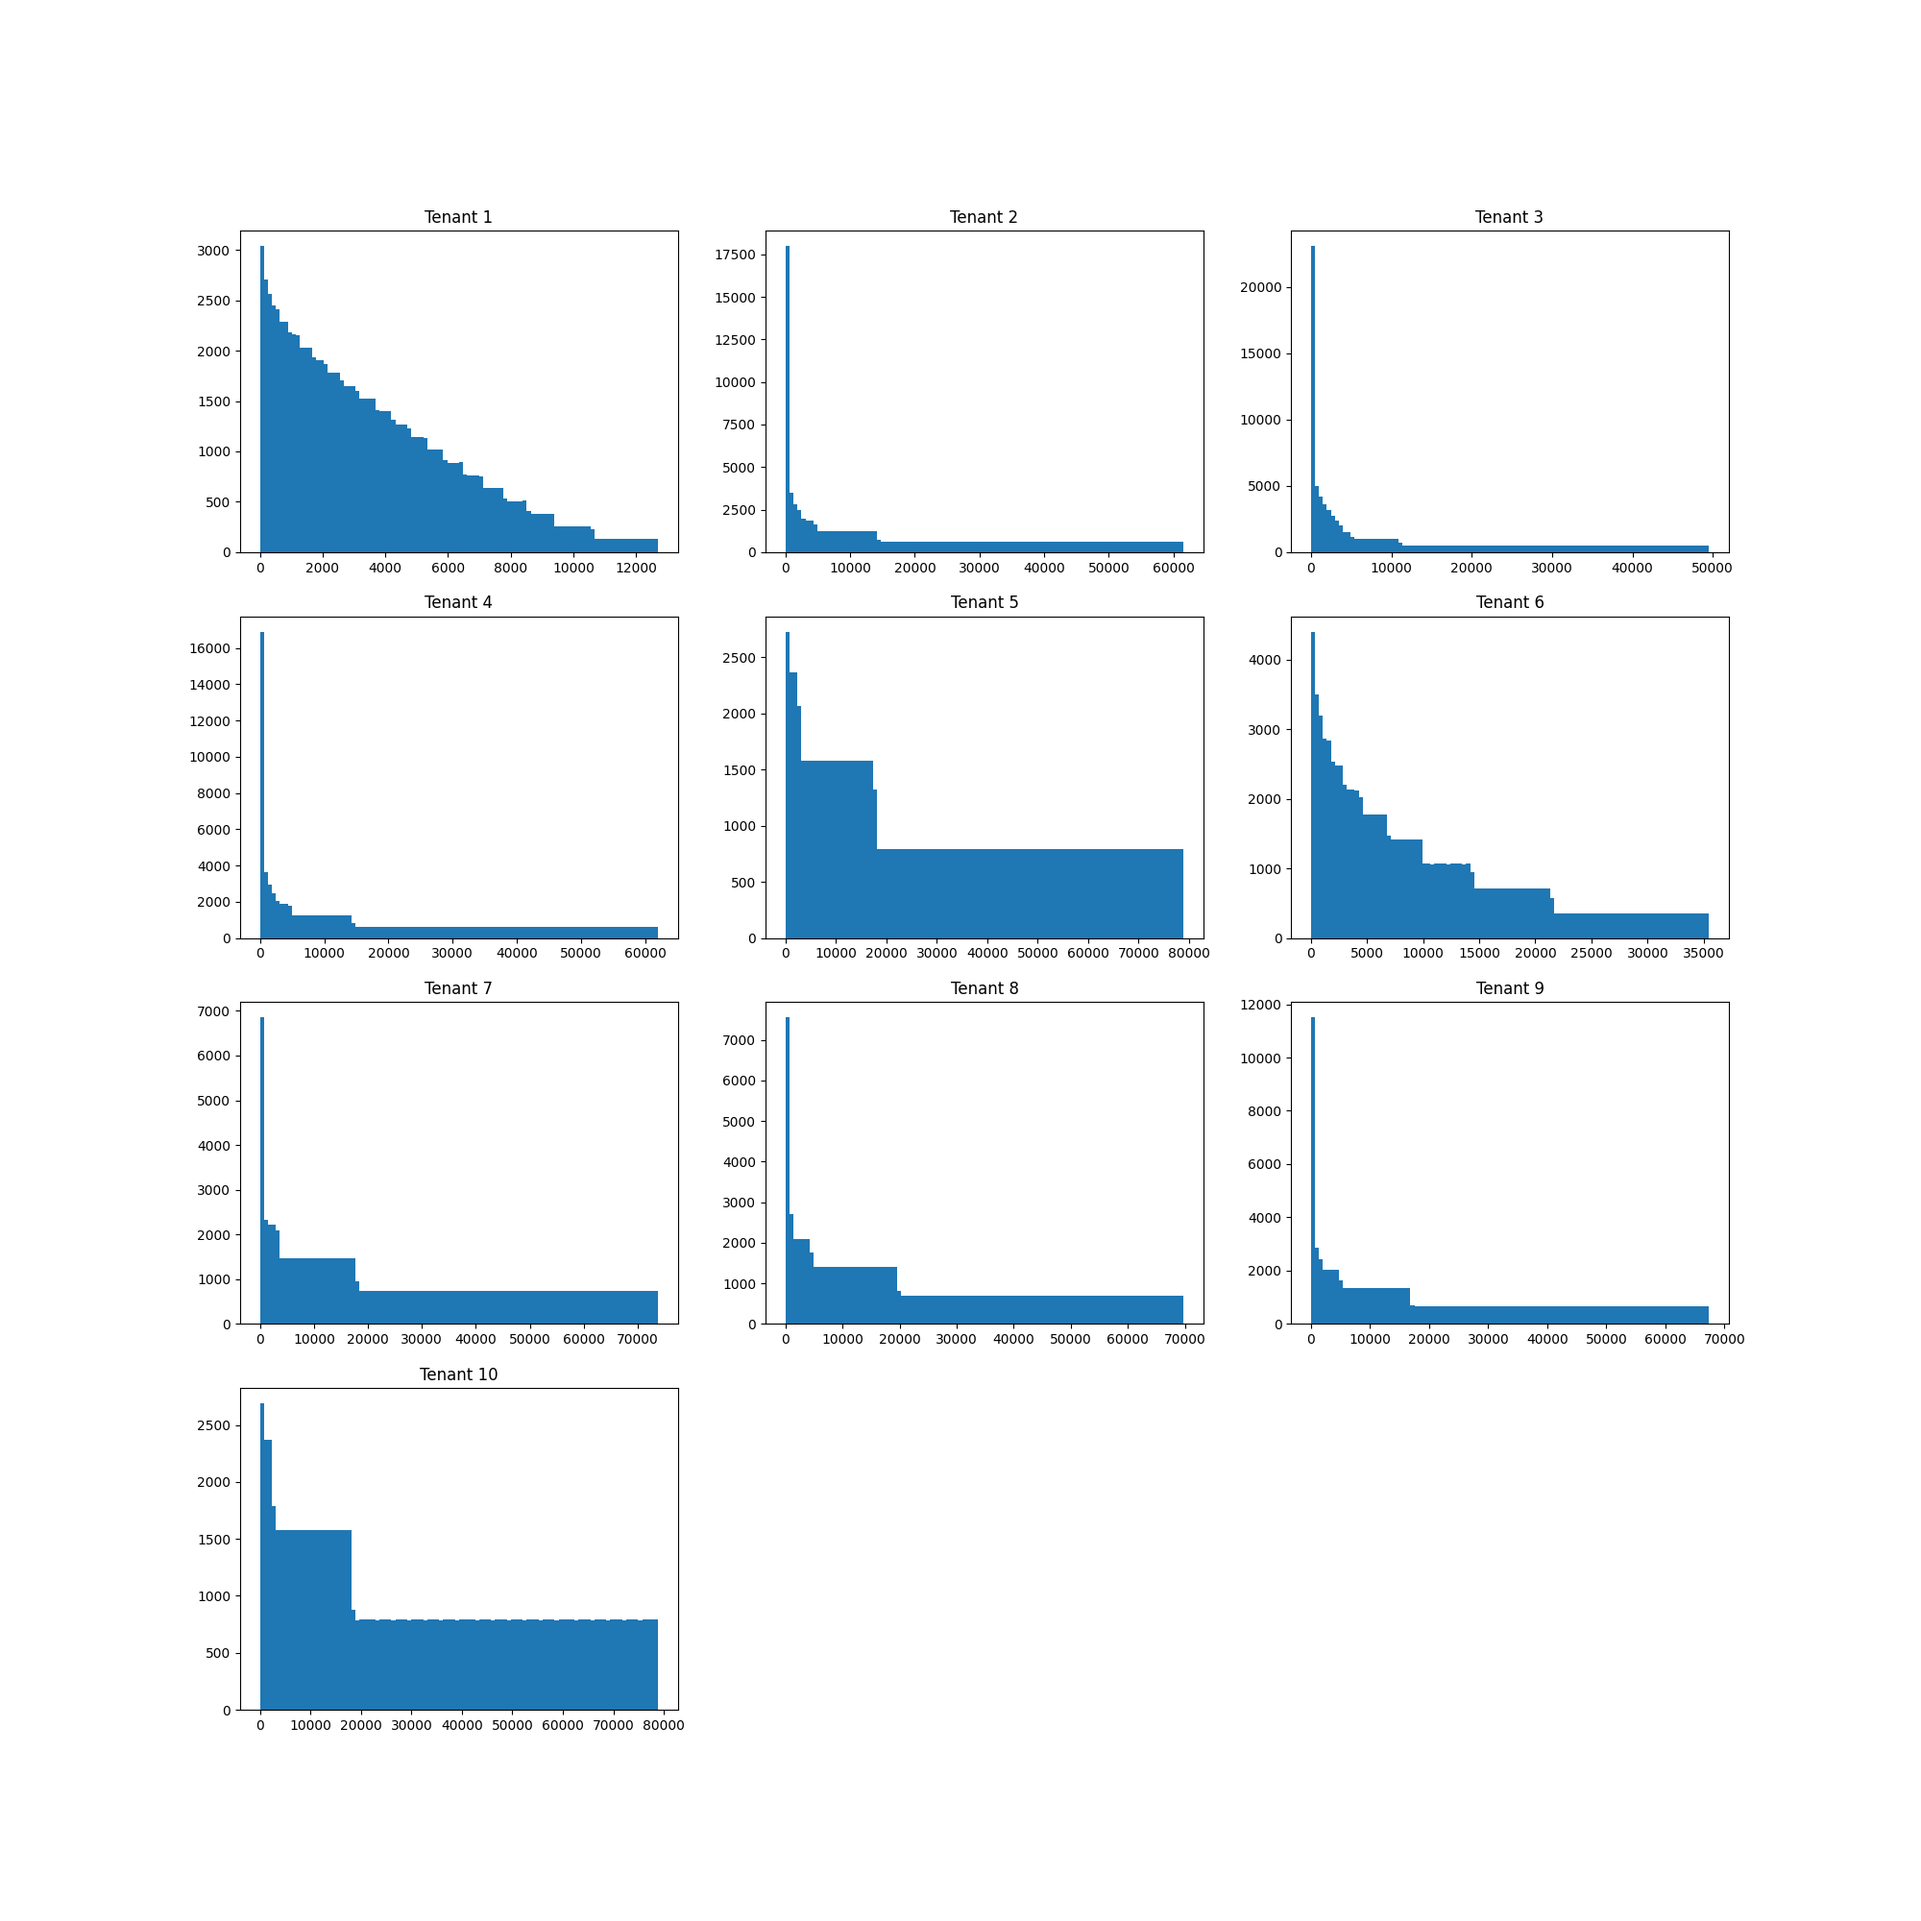
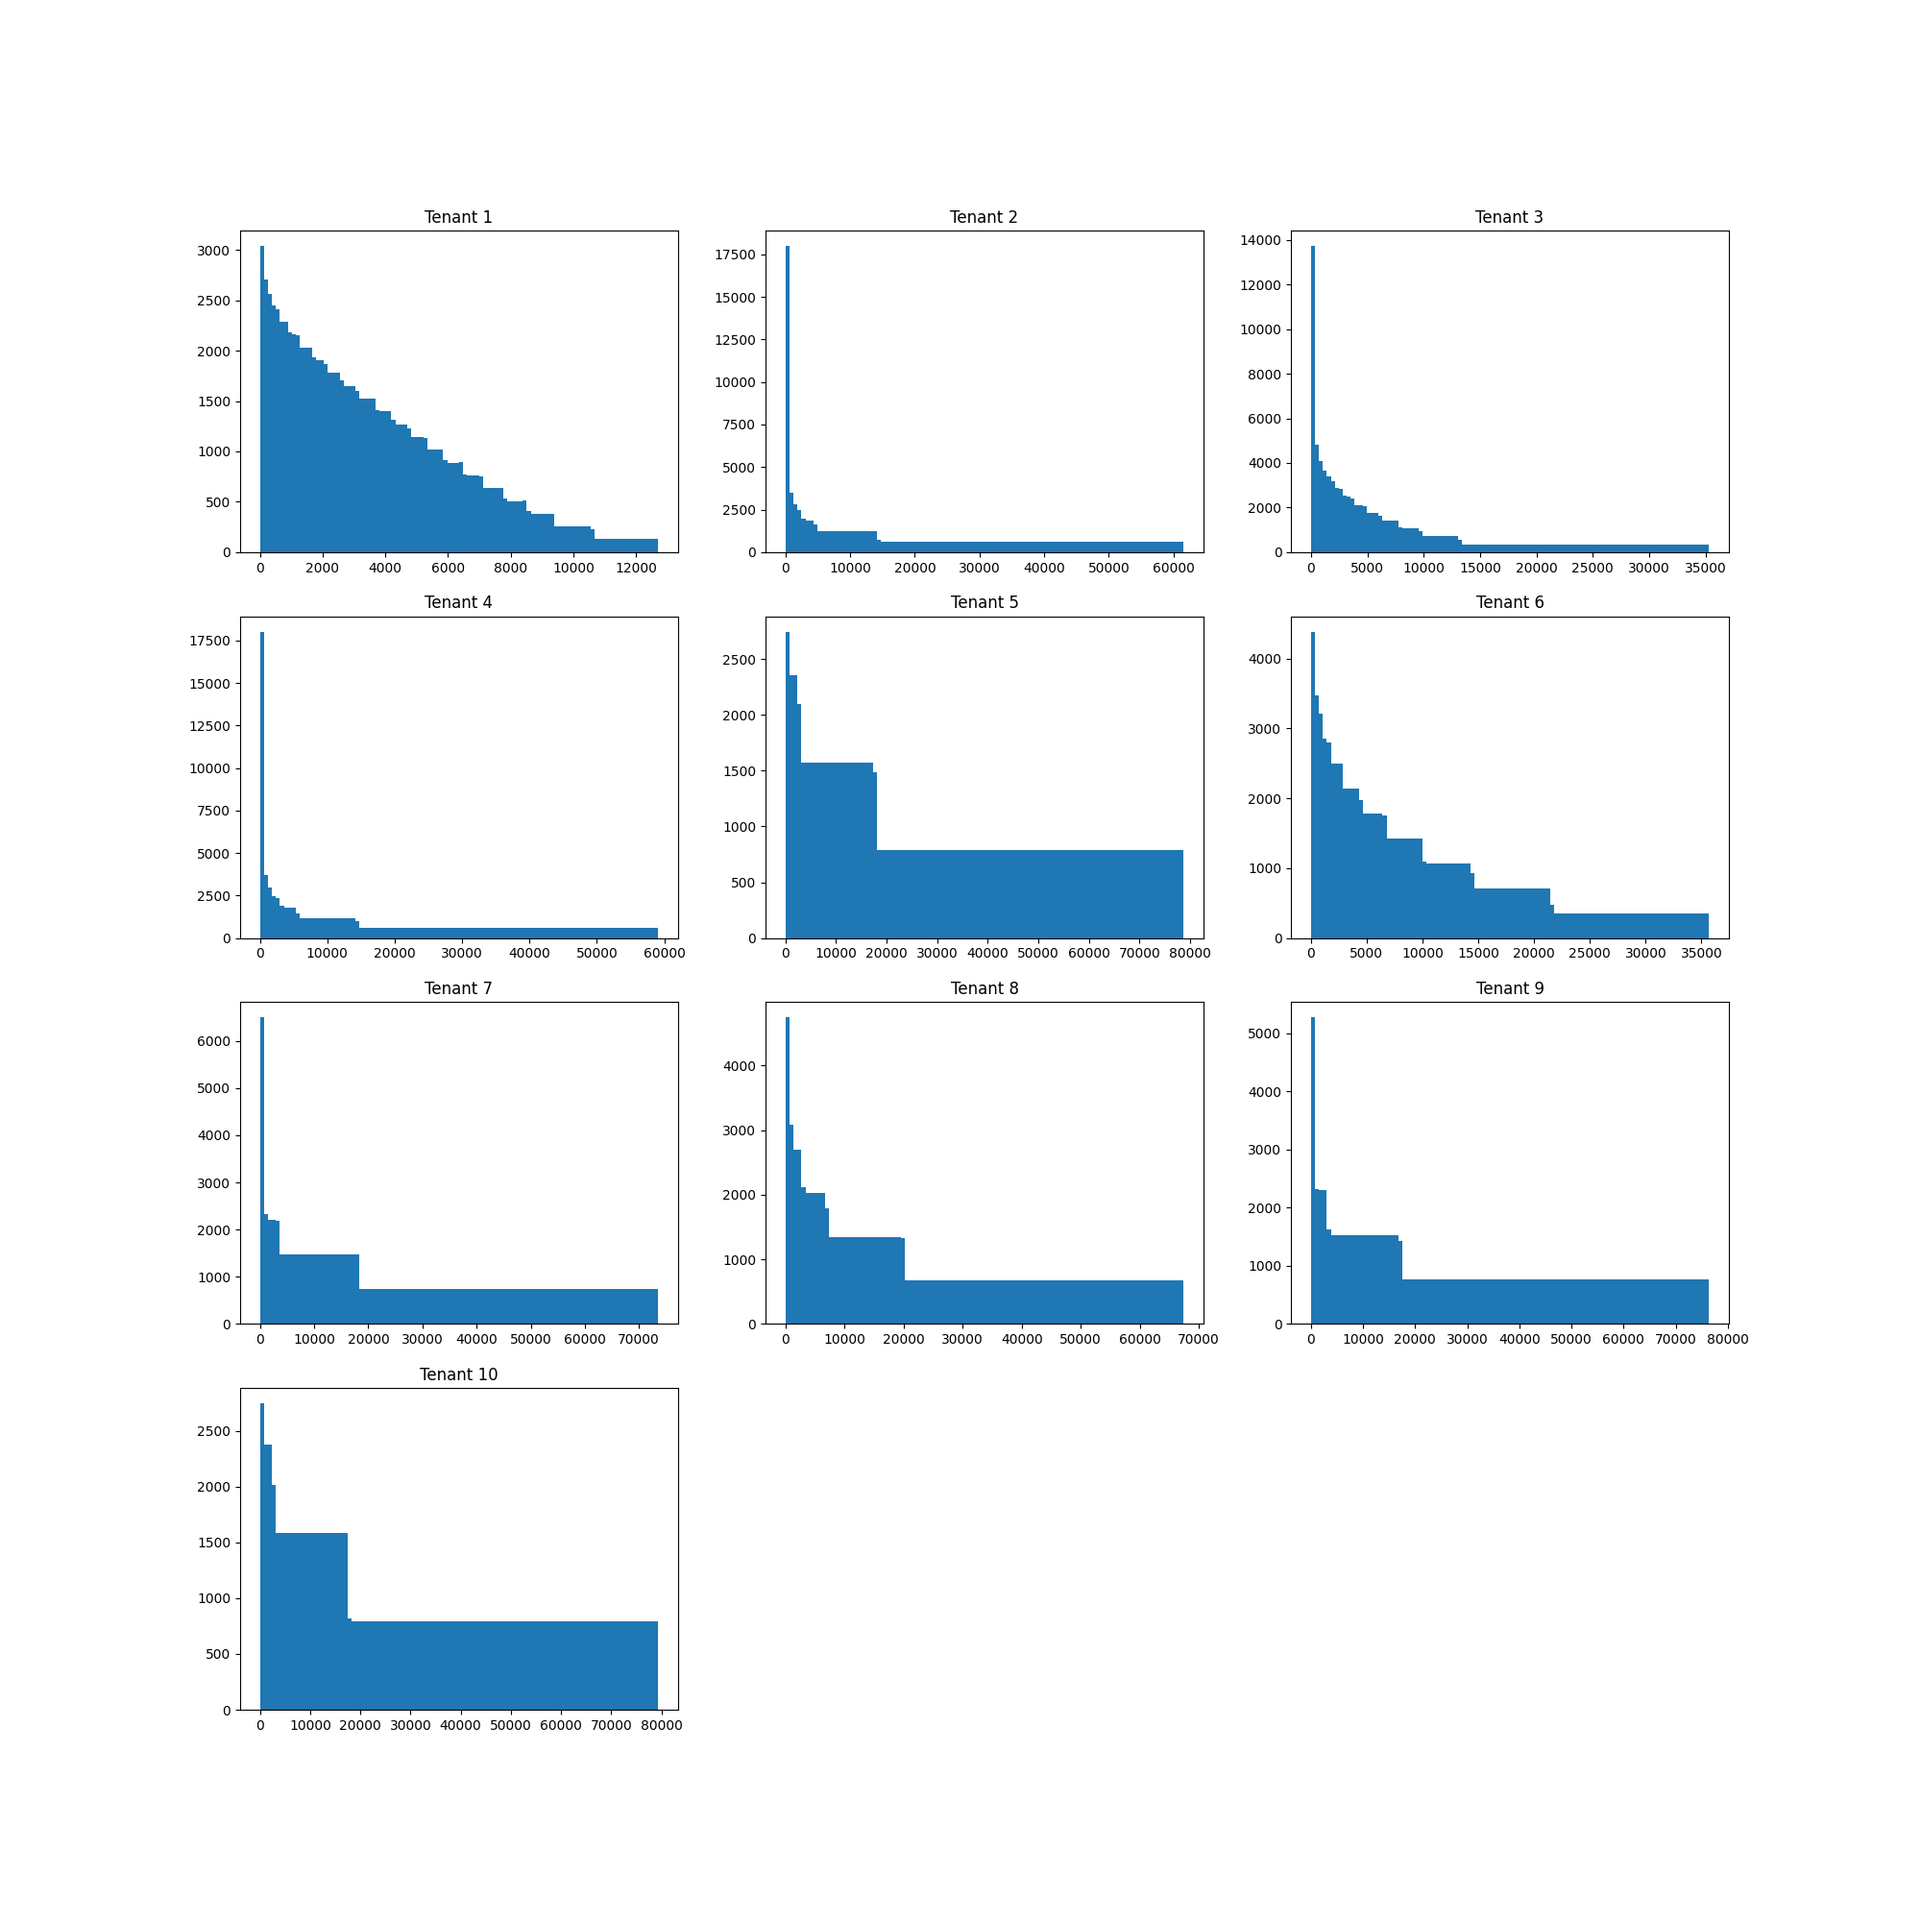
feat/modify-test-8

diff --git a/test_cases/test_case_8/description.py b/test_cases/test_case_8/description.py
@@ -10,17 +10,16 @@ tenants = [
         'minimum_buffer_size': 5000,
         'base_buffer_size': 10000,
         'maximum_buffer_size': 25000,
-        'page_accesses_dist': {
+        'page_accesses_dist': [
+          {
             'type': 'normal',
             'variance': 5000,
             'length': 100000,
-        },
+            'interval_type': 'uniform',
+            'interval_max_value': 1,
+          },
+        ],
         'pages_should_be_renumbered': False,
-        'page_accesses_interval_dist': {
-            'type': 'uniform',
-            'length': 100000,
-            'max_value': 1,
-        },
     },
     {
         'tenant_id': 2,
@@ -29,17 +28,16 @@ tenants = [
         'minimum_buffer_size': 5000,
         'base_buffer_size': 10000,
         'maximum_buffer_size': 25000,
-        'page_accesses_dist': {
+        'page_accesses_dist': [
+          {
             'type': 'zipfian',
             'parameter': 1.01,
             'length': 100000,
-        },
+            'interval_type': 'uniform',
+            'interval_max_value': 1,
+          },
+        ],
         'pages_should_be_renumbered': False,
-        'page_accesses_interval_dist': {
-            'type': 'uniform',
-            'length': 100000,
-            'max_value': 1,
-        },
     },
     {
         'tenant_id': 3,
@@ -48,17 +46,23 @@ tenants = [
         'minimum_buffer_size': 5000,
         'base_buffer_size': 10000,
         'maximum_buffer_size': 25000,
-        'page_accesses_dist': {
+        'page_accesses_dist': [
+          {
             'type': 'pareto',
             'parameter': 0.04,
-            'length': 100000,
-        },
+            'length': 50000,
+            'interval_type': 'uniform',
+            'interval_max_value': 1,
+          },
+          {
+            'type': 'normal',
+            'variance': 5000,
+            'length': 50000,
+            'interval_type': 'uniform',
+            'interval_max_value': 1,
+          },
+        ],
         'pages_should_be_renumbered': False,
-        'page_accesses_interval_dist': {
-            'type': 'uniform',
-            'length': 100000,
-            'max_value': 1,
-        },
     },
     {
         'tenant_id': 4,
@@ -67,17 +71,23 @@ tenants = [
         'minimum_buffer_size': 5000,
         'base_buffer_size': 10000,
         'maximum_buffer_size': 25000,
-        'page_accesses_dist': {
+        'page_accesses_dist': [
+          {
             'type': 'zipfian',
             'parameter': 1.005,
-            'length': 100000,
-        },
-        'pages_should_be_renumbered': False,
-        'page_accesses_interval_dist': {
-            'type': 'uniform',
-            'length': 100000,
-            'max_value': 1,
-        },
+            'length': 50000,
+            'interval_type': 'uniform',
+            'interval_max_value': 1,
+          },
+          {
+            'type': 'pareto',
+            'parameter': 0.04,
+            'length': 50000,
+            'interval_type': 'uniform',
+            'interval_max_value': 1,
+          }
+        ],
+        'pages_should_be_renumbered': True,
     },
     {
         'tenant_id': 5,
@@ -86,16 +96,15 @@ tenants = [
         'minimum_buffer_size': 5000,
         'base_buffer_size': 10000,
         'maximum_buffer_size': 25000,
-        'page_accesses_dist': {
+        'page_accesses_dist': [
+          {
             'type': 'uniform',
             'length': 100000,
-        },
+            'interval_type': 'uniform',
+            'interval_max_value': 1,
+          },
+        ],
         'pages_should_be_renumbered': False,
-        'page_accesses_interval_dist': {
-            'type': 'uniform',
-            'length': 100000,
-            'max_value': 1,
-        },
     },
     {
         'tenant_id': 6,
@@ -104,18 +113,17 @@ tenants = [
         'minimum_buffer_size': 5000,
         'base_buffer_size': 10000,
         'maximum_buffer_size': 25000,
-        'page_accesses_dist': {
+        'page_accesses_dist': [
+          {
             'type': 'normal',
             'variance': 3000,
             'length': 100000,
-        },
+            'interval_type': 'normal',
+            'interval_variance': 4,
+            'interval_max_value': 100,
+          },
+        ],
         'pages_should_be_renumbered': True,
-        'page_accesses_interval_dist': {
-            'type': 'normal',
-            'variance': 4,
-            'max_value': 100,
-            'length': 100000,
-        },
     },
     {
         'tenant_id': 7,
@@ -124,18 +132,17 @@ tenants = [
         'minimum_buffer_size': 5000,
         'base_buffer_size': 10000,
         'maximum_buffer_size': 25000,
-        'page_accesses_dist': {
+        'page_accesses_dist': [
+          {
             'type': 'zipfian',
             'parameter': 1.01,
             'length': 100000,
-        },
+            'interval_type': 'zipfian',
+            'interval_parameter': 2,
+            'interval_max_value': 200000,
+          },
+        ],
         'pages_should_be_renumbered': True,
-        'page_accesses_interval_dist': {
-            'type': 'zipfian',
-            'parameter': 2,
-            'max_value': 200000,
-            'length': 100000,
-        },
     },
     {
         'tenant_id': 8,
@@ -144,18 +151,25 @@ tenants = [
         'minimum_buffer_size': 5000,
         'base_buffer_size': 10000,
         'maximum_buffer_size': 25000,
-        'page_accesses_dist': {
+        'page_accesses_dist': [
+          {
             'type': 'pareto',
             'parameter': 0.04,
-            'length': 100000,
-        },
+            'length': 50000,
+            'interval_type': 'pareto',
+            'interval_parameter': 1,
+            'interval_max_value': 10000,
+          },
+          {
+            'type': 'normal',
+            'variance': 5000,
+            'length': 50000,
+            'interval_type': 'normal',
+            'interval_variance': 4,
+            'interval_max_value': 100,
+          }
+        ],
         'pages_should_be_renumbered': True,
-        'page_accesses_interval_dist': {
-            'type': 'pareto',
-            'parameter': 1,
-            'max_value': 10000,
-            'length': 100000,
-        },
     },
     {
         'tenant_id': 9,
@@ -164,18 +178,25 @@ tenants = [
         'minimum_buffer_size': 5000,
         'base_buffer_size': 10000,
         'maximum_buffer_size': 25000,
-        'page_accesses_dist': {
+        'page_accesses_dist': [
+          {
             'type': 'zipfian',
             'parameter': 1.005,
-            'length': 100000,
-        },
-        'pages_should_be_renumbered': False,
-        'page_accesses_interval_dist': {
-            'type': 'zipfian',
-            'parameter': 2,
-            'max_value': 200000,
-            'length': 100000,
-        },
+            'length': 50000,
+            'interval_type': 'zipfian',
+            'interval_parameter': 2,
+            'interval_max_value': 200000,
+          },
+          {
+            'type': 'pareto',
+            'parameter': 0.04,
+            'length': 50000,
+            'interval_type': 'pareto',
+            'interval_parameter': 1,
+            'interval_max_value': 10000,
+          }
+        ],
+        'pages_should_be_renumbered': True,
     },
     {
         'tenant_id': 10,
@@ -184,16 +205,15 @@ tenants = [
         'minimum_buffer_size': 5000,
         'base_buffer_size': 10000,
         'maximum_buffer_size': 25000,
-        'page_accesses_dist': {
+        'page_accesses_dist': [
+          {
             'type': 'uniform',
             'length': 100000,
-        },
+            'interval_type': 'uniform',
+            'interval_max_value': 20,
+          },
+        ],
         'pages_should_be_renumbered': True,
-        'page_accesses_interval_dist': {
-            'type': 'uniform',
-            'length': 100000,
-            'max_value': 20,
-        },
     },
 ]
 
